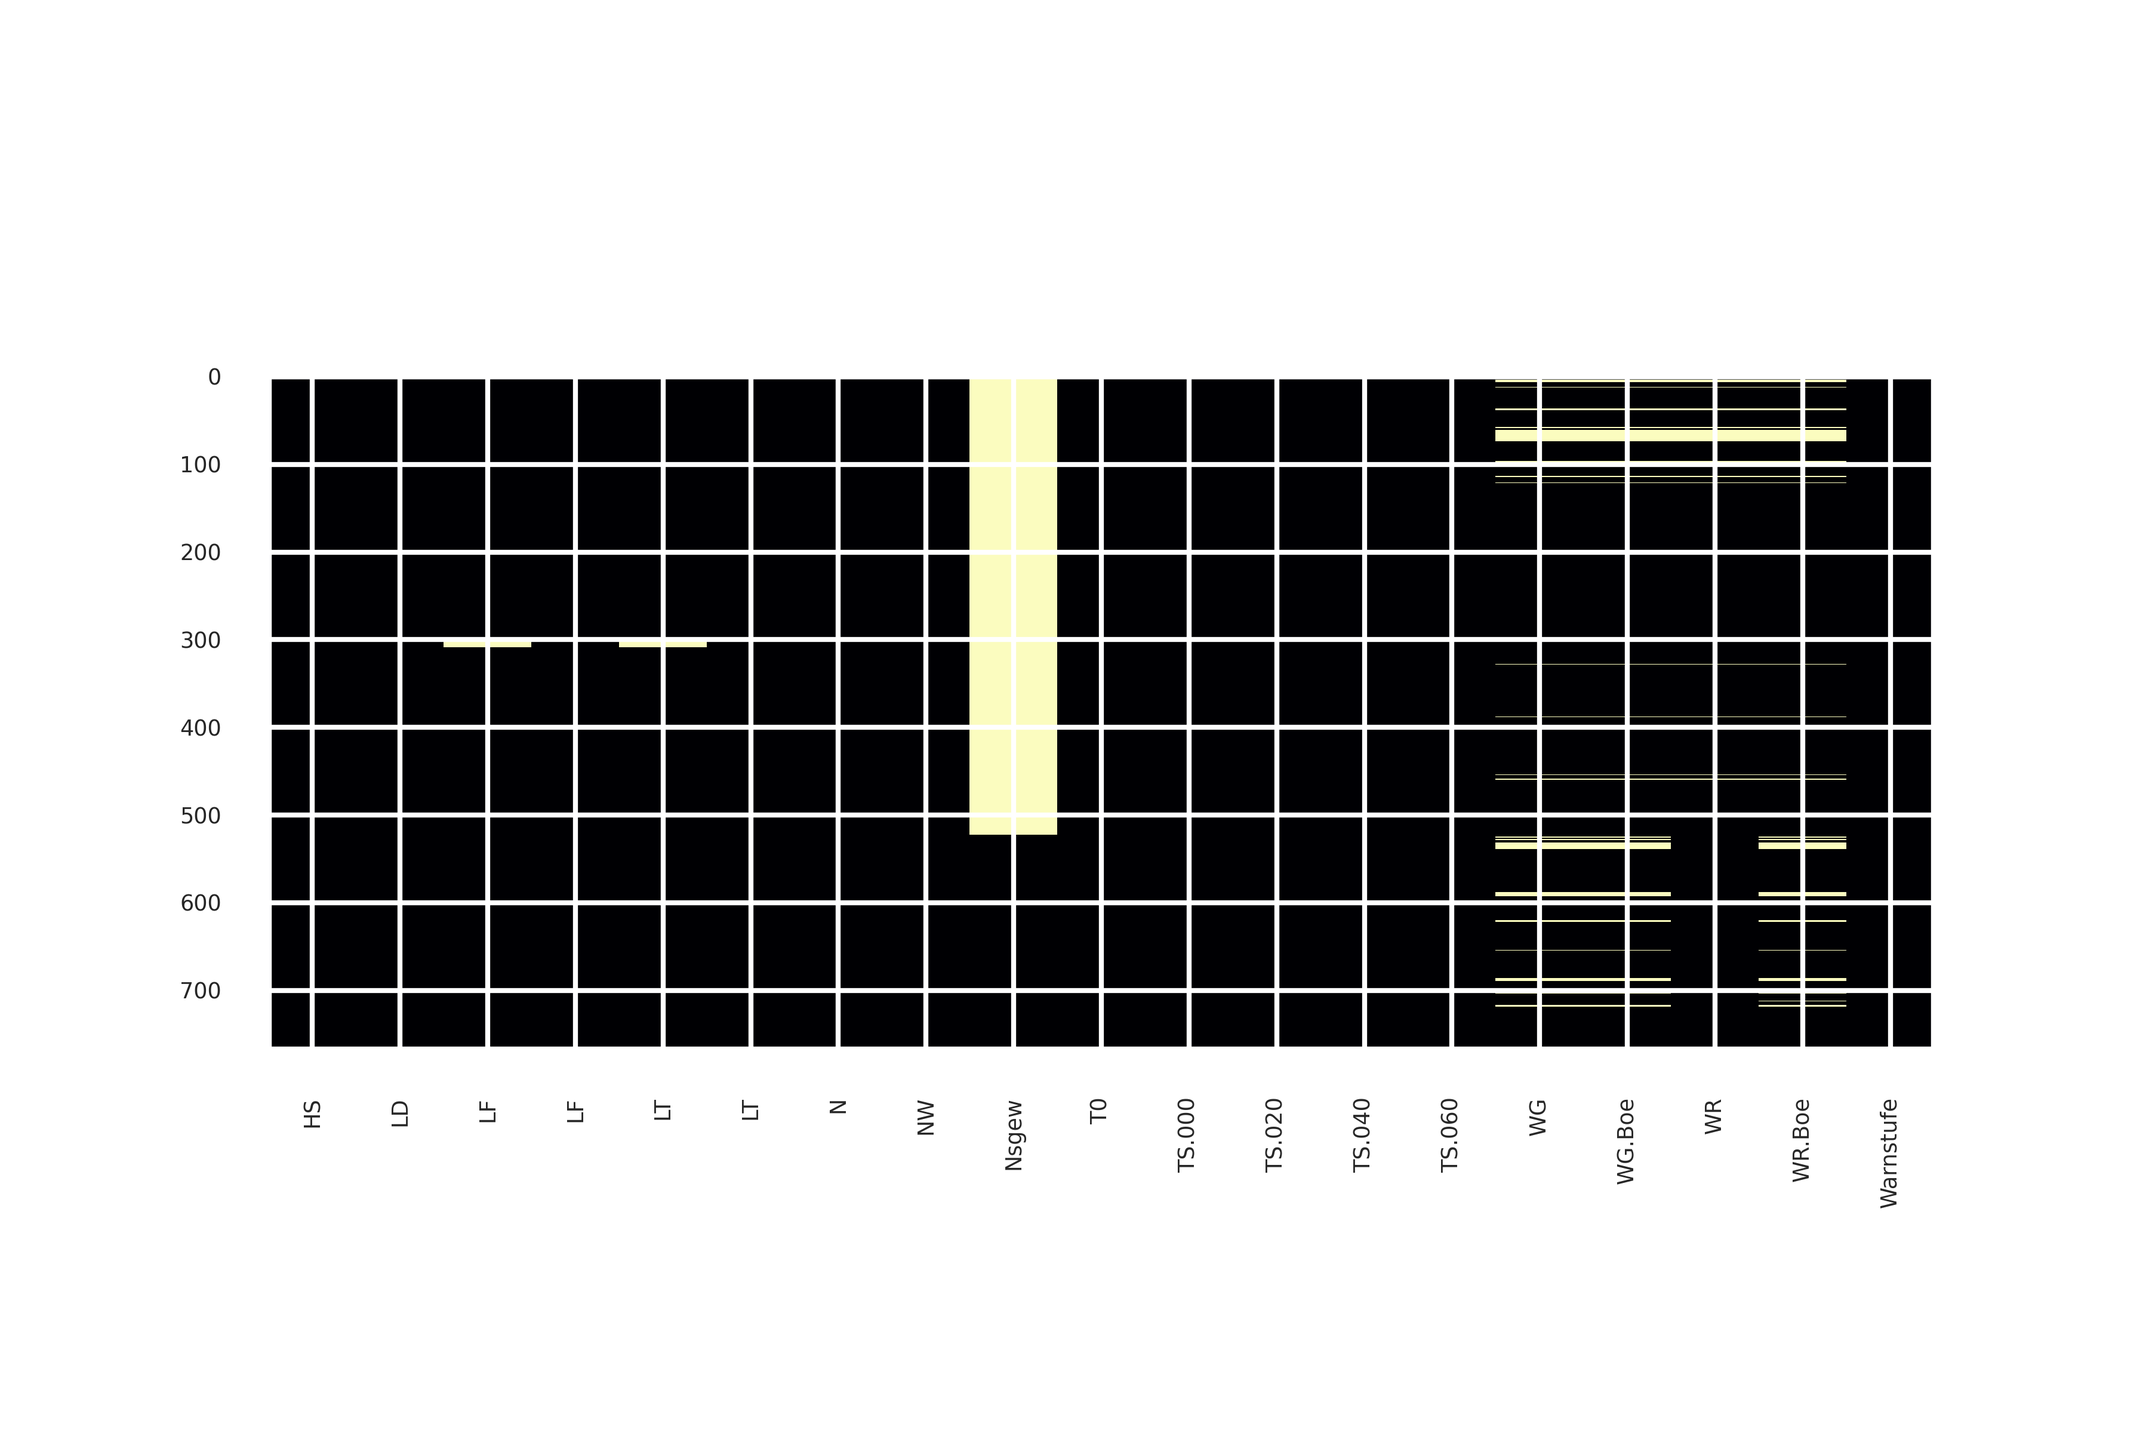
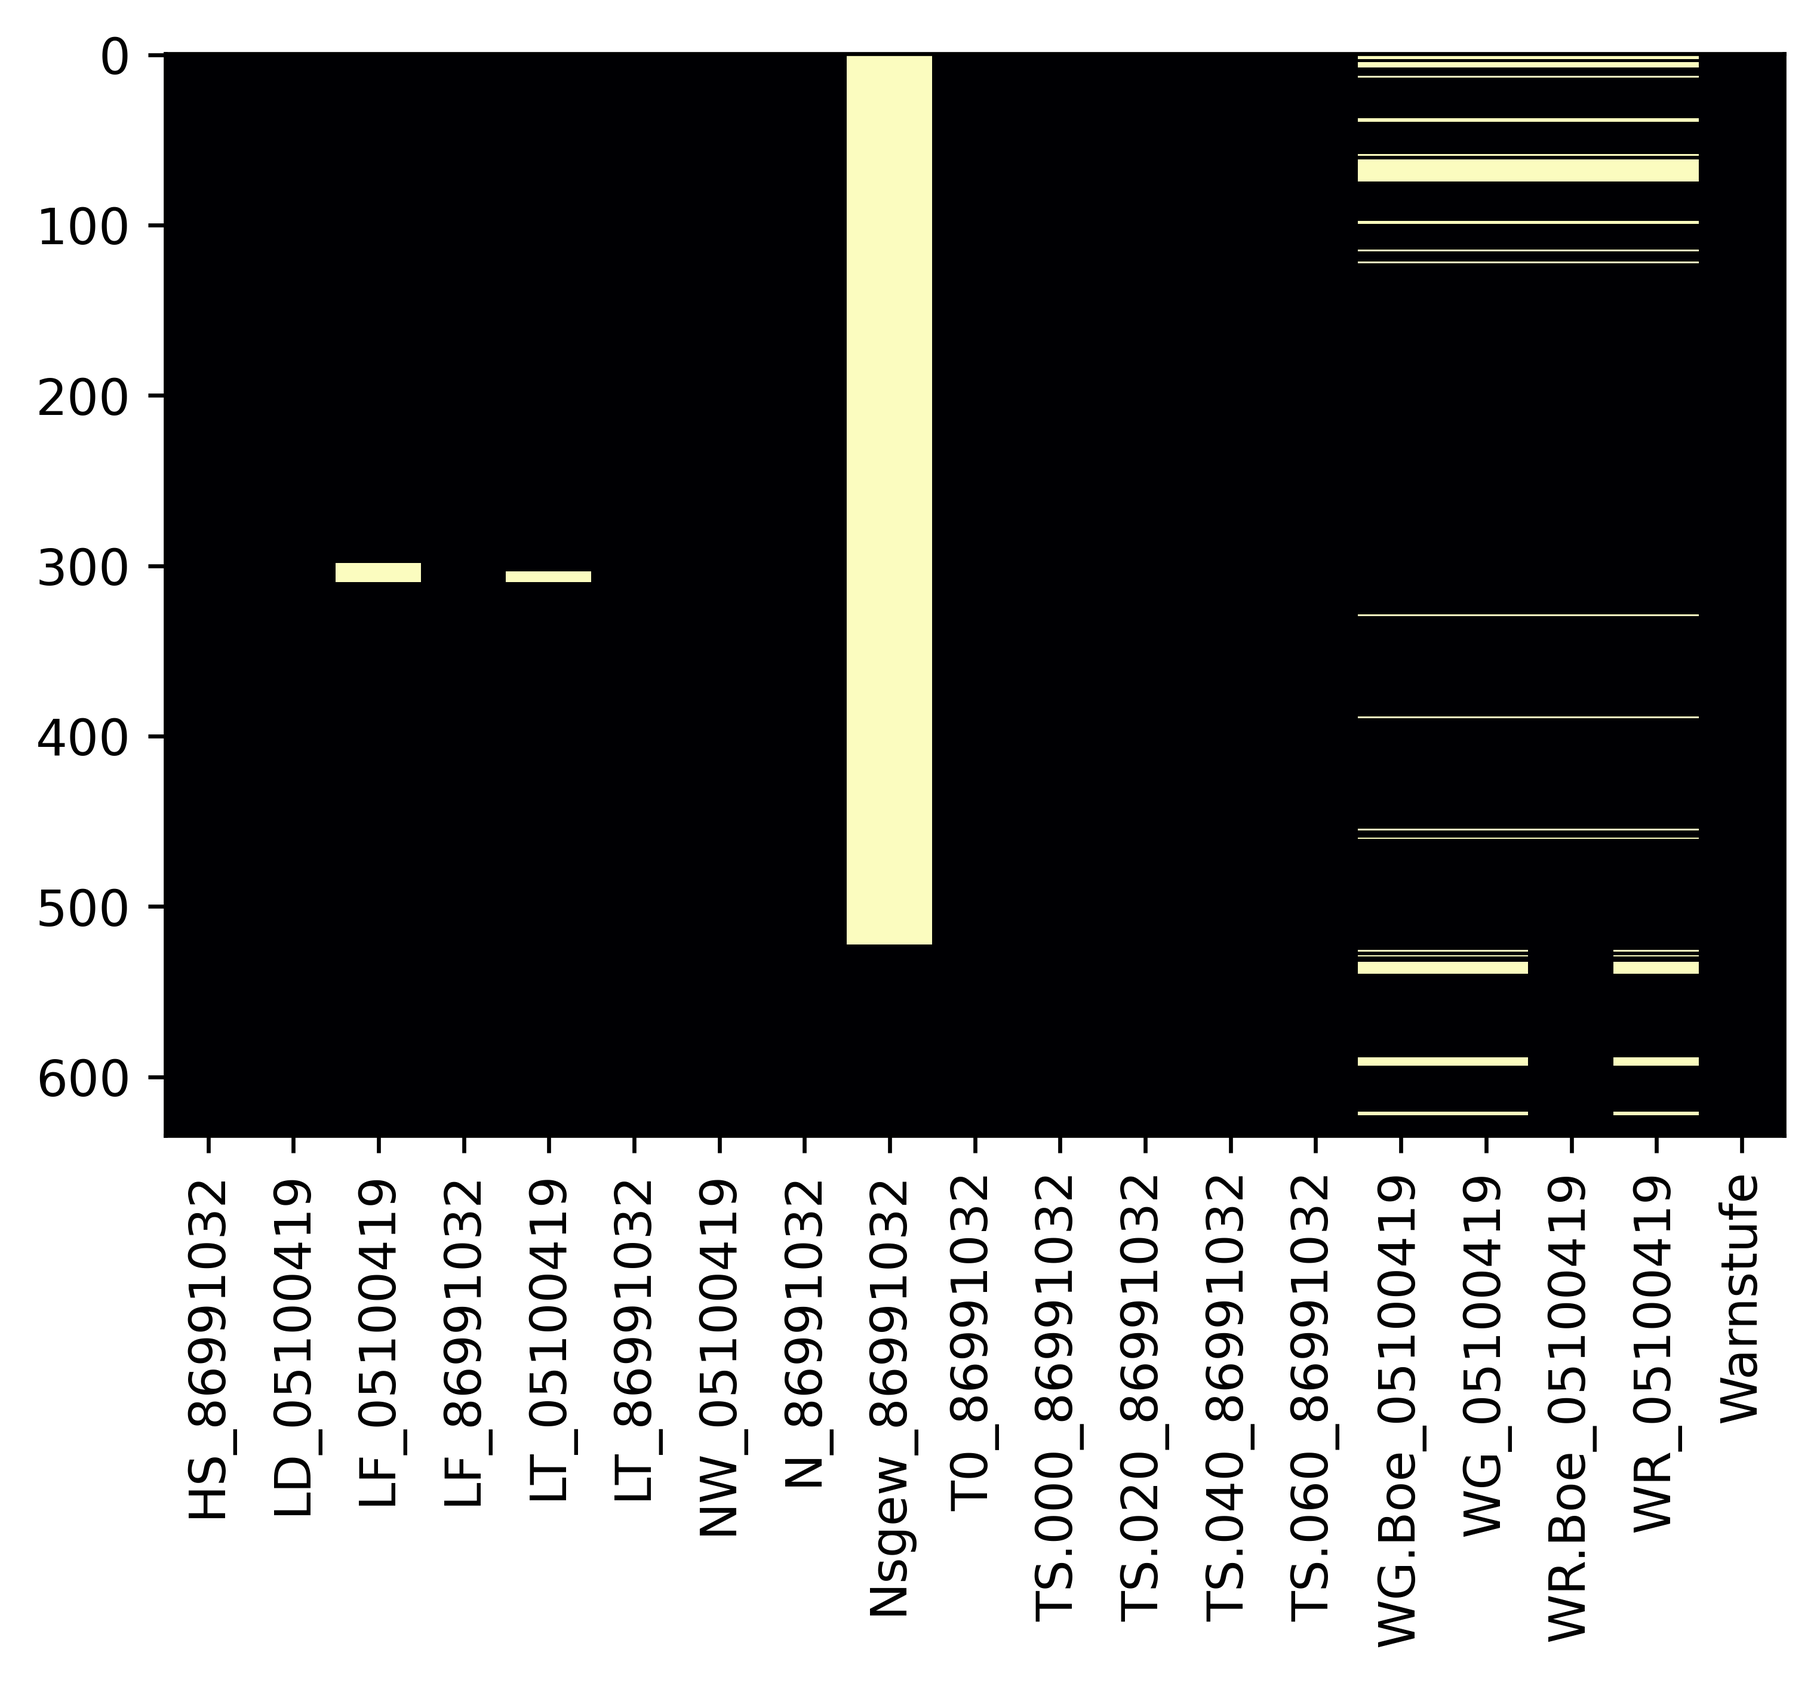
prepare modeling

diff --git a/eda/eda_weather.py b/eda/eda_weather.py
@@ -12,14 +12,15 @@ from functions_general import import_weather_file
 from matplotlib import pyplot as plt
 
 from functions_eda import (plot_correlations, plot_missing_values,
-                           show_data_overview, correlate_aggregate_per_day, compare_shift_correlations)
+                           show_data_overview, correlate_aggregate_per_day, compare_shift_correlations, compare_agg_func_correlations)
 
 WEATHER_FILEPATH = "../data/lawinenwarndienst/weather_data/1-allgaeu/hochgrat-hoermoos/"
 FILES = os.listdir(WEATHER_FILEPATH)
 METRICS = [re.findall(r"(?<=-).+(?=-)", file)[0] for file in FILES]
 
 
-# DATA IMPORT ############
+# * DATA IMPORT ###########################################
+
 dfs = [import_weather_file(WEATHER_FILEPATH, file) for file in FILES]
 data = dfs[0].join(dfs[1:])
 data = data.reindex(sorted(data.columns), axis=1)
@@ -29,38 +30,36 @@ warning_levels = pickle.load(open("../data/lawinenwarndienst/warning_levels_prep
 warning_levels = warning_levels[(warning_levels.low_high == 1) & (warning_levels.Zone == "Allgäuer Alpen")][["Warnstufe"]].astype(int)
 
 
-# MISSING VALUES #############
+# * MISSING VALUES #########################################
+
 fig = plot_missing_values(data, labels = sorted(METRICS), aspect = 0.00003)
-fig.savefig("output/missing_values.png", dpi = 600)
+fig.savefig("output/missing_values.png", dpi = 600, facecolor = 'white', transparent = False)
 
 
-# TRAIN TEST SPLIT ##############
+# * TRAIN TEST SPLIT #######################################
+
 # Threshold: August 2017
 train = data[data.index < "2017-08-01"]
 test = data[data.index >= "2017-08-01"]
 
 
-# UNIVARIATE EXPLORATION ###########
+# * UNIVARIATE EXPLORATION ##################################
 
 # T0 - Surface temperature
 show_data_overview(train[["T0_86991032"]])
-#?  Auffällig:
-#   Monatsverlauf: Größere Schwankungen / Abstürze
+#? Monatsverlauf: Größere Schwankungen / Abstürze
 
 # WG - wind speed
 show_data_overview(train[["WG_05100419"]])
-#?  Auffällig:
-#   Teils viele NAs (bis zu 16%)
-#   Viel Rauschen in den Daten (natürlich)
+#? Teils viele NAs (bis zu 16%)
+#? Viel Rauschen in den Daten (natürlich)
 
 show_data_overview(train[["WG.Boe_05100419"]])
-#?  Auffällig:
-# Bis zu 17% NAs
+#? Bis zu 17% NAs
 
 # N - precipitation
 show_data_overview(train[["N_86991032"]])
-#?  Auffällig:
-#   N ist wohl neuer Niederschlag pro Zeitfenster
+#? N ist wohl neuer Niederschlag pro Zeitfenster
 
 # LT - air temperature
 show_data_overview(train[["LT_05100419"]])
@@ -69,11 +68,10 @@ show_data_overview(train[["LT_86991032"]])
 # WR - wind direction
 show_data_overview(train[["WR.Boe_05100419"]])
 show_data_overview(train[["WR_05100419"]])
-#?  Auffällig:
-#   Teils viele NAs
-#   Gemessen in Grad von 0 bis 359
-#   Unwahrscheinlich, dass ich diese Variable brauche
-#   Interessant das Histogramm
+#? Teils viele NAs
+#? Gemessen in Grad von 0 bis 359
+#? Unwahrscheinlich, dass ich diese Variable brauche
+#? Interessant das Histogramm
 
 # TS - snow temperature
 show_data_overview(train[["TS.000_86991032"]])
@@ -85,118 +83,87 @@ snow_temp = train.loc[:"2013-09-01",train.columns.str.startswith("TS")]
 snow_temp["time"] = snow_temp.index.date
 snow_temp = snow_temp.melt(id_vars = "time")
 sns.lineplot(x = snow_temp["time"], y = snow_temp["value"], hue = snow_temp["variable"])
-
-#?  Auffällig:
-#   Absolute Werte für Schneetemperatur können nicht stimmen - bis 40 Grad? MW von 5 Grad? Wahrscheinlich: Wenn kein Schnee, dann einfach Umgebungstemperatur!
-#   Die höher angebrachten sind auch im Winter manchmal oberhalb des Schnees. Insgesamt aber nur wenige Tage Unterschied
+#? Absolute Werte für Schneetemperatur können nicht stimmen - bis 40 Grad? MW von 5 Grad? Wahrscheinlich: Wenn kein Schnee, dann einfach Umgebungstemperatur!
+#? Die höher angebrachten sind auch im Winter manchmal oberhalb des Schnees. Insgesamt aber nur wenige Tage Unterschied
 
 # LD - air pressure
 show_data_overview(train[["LD_05100419"]])
 
 # Nsgew - PRECIPITATION WEIGHT
 show_data_overview(train[["Nsgew_86991032"]])
-#?  Auffällig:
-#   Nur sehr wenige Werte (der maximal möglichen) vorhanden (nur von 2016 bis 2018)  
-# Daten für 2017 sehen seltsam aus
+#? Nur sehr wenige Werte (der maximal möglichen) vorhanden (nur von 2016 bis 2018)  
+#? Daten für 2017 sehen seltsam aus
 
 # LF - RELATIVE HUMIDITY 
 show_data_overview(train[["LF_86991032"]]) # wind station
-#?  Auffällig:
-#   Relative Feuchtigkeit in Prozent
-#   Viel Rauschen in den Daten
-#   Verteilung sehr linksschief
+#? Relative Feuchtigkeit in Prozent
+#? Viel Rauschen in den Daten
+#? Verteilung sehr linksschief
 
 show_data_overview(train[["LF_05100419"]]) # snow station
-#?  Auffällig:
-#   In manchen Jahren bis zu 14% NAs
-#   Insgesamt feuchter als in der Windstation
-#   Verteilung sehr linksschief; die meisten Werte bei 100%
+#? In manchen Jahren bis zu 14% NAs
+#? Insgesamt feuchter als in der Windstation
+#? Verteilung sehr linksschief; die meisten Werte bei 100%
 
 # HS - SNOW HEIGHT
 show_data_overview(train[["HS_86991032"]])
-#?  Auffällig:
-#   MW = 30, Median = 0
+#? MW = 30, Median = 0
 
 # NW - PRECIPITATION BOOLEAN 
 show_data_overview(train[["NW_05100419"]])
-#?  Auffällig:
-#   Boolean variable
-#   In 6% Niederschlag
+#? Boolean variable
+#? In 6% Niederschlag
 
 # LT - AIR TEMPERATURE 
 show_data_overview(train[["LT_05100419"]]) # snow station
 show_data_overview(train[["LT_86991032"]]) # snow station
-#?  Auffällig:
-#   Viel Rauschen
+#? Viel Rauschen
 
 
-# MULTIVARIATE EXPLORATION
+# * MULTIVARIATE EXPLORATION #####################
 
-# CORRELATIONS
+train_agg = train.groupby(train.index.date).mean().shift(1)
+train_full_agg = train_agg.join(warning_levels).dropna(subset = warning_levels.columns)
+
+# PAIRPLOT ALL VARIABLES
+fig = sns.pairplot(train_full_agg)
+fig.savefig("output/pairplot_all_vars_shift1.png", dpi = 300, facecolor = 'white', transparent = False)
+
+# MISSING VALUES ALL VARIABLES
+fig = plot_missing_values(train_full_agg, labels = train_full_agg.columns, aspect = 0.02)
+fig.savefig("output/missing_values_warnstufe.png", dpi = 600, facecolor = 'white', transparent = False, bbox_inches = "tight")
+
+# CORRELATIONS OF INDEPENDENT VARIABLES
 out = plot_correlations(train, labels = sorted(METRICS))
-out.savefig("output/correlations.png", dpi = 600)
-#? Auffällig:
-#   Schneehöhe ist negativ korreliert mit Luftdruck, Lufttemperatur und Schneetemperatur
-#   Luftdruck ist positiv korreliert mit Temperatur, negativ mit Windgeschwindigkeit und Luftfeuchtigkeit
-#   Luftfeuchtigkeit ist negativ korreliert mit Lufttemperatur
+out.savefig("output/correlations.png", dpi = 600, facecolor = 'white', transparent = False)
+#? Schneehöhe ist negativ korreliert mit Luftdruck, Lufttemperatur und Schneetemperatur
+#? Luftdruck ist positiv korreliert mit Temperatur, negativ mit Windgeschwindigkeit und Luftfeuchtigkeit
+#? Luftfeuchtigkeit ist negativ korreliert mit Lufttemperatur
 
 # CORRELATION WITH TARGET VARIABLE
+# Compare different shift values
+for shift in range(4):
+    plt.figure()
+    corr_shift = compare_agg_func_correlations(train, warning_levels, shift = shift)
+    sns.set(font_scale = 0.4)
+    fig = sns.heatmap(corr_shift, cmap = "coolwarm_r", annot = True)
+    fig.figure.savefig(f"output/corr_shift{shift}.png", dpi = 600, facecolor = 'white', transparent = False)
+#? Alle Temperaturen: max /mean ist am stärksten korreliert, min am wenigsten
+#? Sum verhält sich sehr ähnlich wie mean
 
-# Variation 1: On 10 minutes levels
-train_full = train.join(warning_levels)
-# Forward fill "warnstufe" per day
-train_full["Warnstufe"] = train_full[["Warnstufe"]].groupby(train_full.index.date).fillna(method = "ffill")
-# Plot missing values
-labels_plot = sorted(METRICS)
-labels_plot.append("Warnstufe")
-fig = plot_missing_values(train_full, labels = labels_plot, aspect = 0.00003)
-fig.savefig("output/missing_values_warnstufe.png", dpi = 600)
+# Compare different aggregation functions
+for agg_func in ["mean", "max", "min", "sum"]:
+    plt.figure()
+    shift_corr = compare_shift_correlations(train, warning_levels, max_shift = 14, agg_func = agg_func)
+    sns.set(font_scale = 0.4)
+    fig = sns.heatmap(shift_corr, cmap = "coolwarm_r", annot = True)
+    fig.figure.savefig(f"output/corr_shift_{agg_func}.png", dpi = 600, facecolor = 'white', transparent = False)
+#? Shift von 1 bis 2 hat stärkere Korrelationen als die Daten am selben Tag (logisch)
 
-# Variation 2: On daily levels
-# Comparison: Mean, max and min
-correlation_mean = correlate_aggregate_per_day(train, warning_levels, "mean", shift = 0)
-correlation_max = correlate_aggregate_per_day(train, warning_levels, "max", shift = 0)
-correlation_min = correlate_aggregate_per_day(train, warning_levels, "min", shift = 0)
-correlation_sum = correlate_aggregate_per_day(train, warning_levels, "sum", shift = 0)
-
-fig = sns.heatmap(pd.concat([correlation_mean, correlation_max, correlation_min, correlation_sum], axis = 1), cmap = "coolwarm_r", annot = True)
-fig.figure.savefig("output/corr_shift0.png", dpi = 600)
-
-#? Erkenntnisse:
-#   Alle Temperaturen: max /mean ist am stärksten korreliert, min am wenigsten
-#   Sum verhält sich sehr ähnlich wie mean
-
-
-# # LAG 1
-# correlation_mean = correlate_aggregate_per_day(train, warning_levels, "mean", shift = 1)
-# correlation_max = correlate_aggregate_per_day(train, warning_levels, "max", shift = 1)
-# correlation_min = correlate_aggregate_per_day(train, warning_levels, "min", shift = 1)
-# correlation_sum = correlate_aggregate_per_day(train, warning_levels, "sum", shift = 1)
-
-# fig = sns.heatmap(pd.concat([correlation_mean, correlation_max, correlation_min, correlation_sum], axis = 1), cmap = "coolwarm_r", annot = True)
-# fig.figure.savefig("output/corr_shift1.png", dpi = 600)
-
-
-# Compare lag correlations: mean
-shift_corr_mean = compare_shift_correlations(train, warning_levels, max_shift = 14, agg_func = "mean")
-sns.set(font_scale=0.4)
-fig = sns.heatmap(shift_corr_mean, cmap = "coolwarm_r", annot = True)
-fig.figure.savefig("output/corr_shift_mean.png", dpi = 600)
-
-# Compare lag correlations: max
-shift_corr_mean = compare_shift_correlations(train, warning_levels, max_shift = 14, agg_func = "max")
-sns.set(font_scale=0.4)
-fig = sns.heatmap(shift_corr_mean, cmap = "coolwarm_r", annot = True)
-fig.figure.savefig("output/corr_shift_max.png", dpi = 600)
-
-# Compare lag correlations: min
-shift_corr_mean = compare_shift_correlations(train, warning_levels, max_shift = 14, agg_func = "min")
-sns.set(font_scale=0.4)
-fig = sns.heatmap(shift_corr_mean, cmap = "coolwarm_r", annot = True)
-fig.figure.savefig("output/corr_shift_min.png", dpi = 600)
-
-# Compare lag correlations: sum
-shift_corr_mean = compare_shift_correlations(train, warning_levels, max_shift = 14, agg_func = "sum")
-sns.set(font_scale=0.4)
-fig = sns.heatmap(shift_corr_mean, cmap = "coolwarm_r", annot = True)
-fig.figure.savefig("output/corr_shift_sum.png", dpi = 600)
+# RELATION TO TARGET VARIABLE
+# Mean - shift 1
+train_agg = train.groupby(train.index.date).mean().shift(1)
+train_full_agg = train_agg.join(warning_levels)
+fig = sns.pairplot(train_full_agg, y_vars = ['Warnstufe'], x_vars = train_full_agg.columns[::-1])
+fig.savefig("output/pairplot_shift1.png", dpi = 600)
+#? Keine ganz klaren Trends erkennbar

diff --git a/data_engineering/data_engineering.py b/data_engineering/data_engineering.py
@@ -1,16 +1,77 @@
-## DATA ENGINEERING ###
+import sys
+sys.path.append("/home/daniel/Schreibtisch/Projekte/avalanche-risk")
 
+import os
+import pickle
+import re
 
-# Imputation
-#! davor: train-test-split!
+import numpy as np
+import pandas as pd
+import seaborn as sns
+from functions_general import import_weather_file
+from matplotlib import pyplot as plt
+from eda.functions_eda import plot_missing_values
 from sklearn.impute import KNNImputer
+from sklearn.pipeline import make_pipeline
+from sklearn.preprocessing import PowerTransformer, MinMaxScaler
+from eda.functions_eda import plot_correlations
 
-data_full_agg.isna().sum()
-data_full_agg["Nsgew_86991032"].plot()
+WEATHER_FILEPATH = "../data/lawinenwarndienst/weather_data/1-allgaeu/hochgrat-hoermoos/"
+FILES = os.listdir(WEATHER_FILEPATH)
+METRICS = [re.findall(r"(?<=-).+(?=-)", file)[0] for file in FILES]
 
 
-imputer = KNNImputer(n_neighbors = 10)
+# * DATA IMPORT ###########################################
 
-data_full_agg_imputed = pd.DataFrame(imputer.fit_transform(data_full_agg), columns = data_full_agg.columns, index = data_full_agg.index)
-data_full_agg_imputed.isna().sum()
-data_full_agg_imputed["Nsgew_86991032"].plot()
+dfs = [import_weather_file(WEATHER_FILEPATH, file) for file in FILES]
+data = dfs[0].join(dfs[1:])
+data = data.reindex(sorted(data.columns), axis=1)
+del dfs
+
+warning_levels = pickle.load(open("../data/lawinenwarndienst/warning_levels_preprocessed.p", "rb"))
+warning_levels = warning_levels[(warning_levels.low_high == 1) & (warning_levels.Zone == "Allgäuer Alpen")][["Warnstufe"]].astype(int)
+
+
+# * TRAIN TEST SPLIT #######################################
+
+data = data.drop(["Nsgew_86991032"], axis = 1)
+
+test = data[["HS_86991032", "LD_05100419", "LF_05100419", "LT_86991032", "N_86991032", "T0_86991032", "TS.060_86991032", "WG_05100419", "WR_05100419"]]
+
+# Threshold: August 2017
+train = data[data.index < "2017-08-01"]
+test = data[data.index >= "2017-08-01"]
+
+
+# * IMPUTE MISSING VALUES ##################################
+
+def preprocess(df, agg_func, columns_to_keep):
+    # Aggregate
+    df = getattr(train.groupby(train.index.date), agg_func)()
+    # Keep only relevant columns
+    df = df[columns_to_keep]
+    # Impute
+    knn = KNNImputer(n_neighbors = 10)
+    # Scale
+    scale = MinMaxScaler()
+    pipeline = make_pipeline(knn, scale)
+    out = pd.DataFrame(pipeline.fit_transform(df), columns = df.columns, index = df.index)
+    return out
+
+def get_shifted_features(df, max_shift, include_zero = False):
+    out = pd.DataFrame(index = df.index)
+    start = [0 if include_zero else 1][0]
+    for shift in range(start, max_shift+1):
+        data = preprocess(df).shift(shift)
+        data.columns = df.columns + f"-{shift}"
+        out = out.join(data)
+    return out
+
+# * remove correlated features
+plot_correlations(data, labels = data.columns)
+columns_to_keep = ["HS_86991032", "LD_05100419", "LF_05100419", "LT_86991032", "N_86991032", "T0_86991032", "TS.060_86991032", "WG_05100419", "WR_05100419"]
+
+train_prep = preprocess(train, agg_func = "mean", columns_to_keep = columns_to_keep)
+
+train_shifted = get_shifted_features(train_prep, max_shift = 1, include_zero = False)
+

diff --git a/eda/functions_eda.py b/eda/functions_eda.py
@@ -36,6 +36,7 @@ def show_data_overview(df):
     df.plot(kind = "hist", bins = 20)
     
 def plot_missing_values(df, labels, **kwargs): 
+    plt.tight_layout()
     fig, ax = plt.subplots()
     im = ax.imshow(df.isna().astype(int).to_numpy(), cmap = "magma", interpolation = "nearest", **kwargs)
     ax.set_xticks(np.arange(df.shape[1]))
@@ -62,8 +63,15 @@ def correlate_aggregate_per_day(df, warning_levels, agg_func, shift):
     return cor
 
 def compare_shift_correlations(df, warning_levels, max_shift, agg_func):
-    correlations = pd.DataFrame(index =  df.columns.tolist())
+    correlations = pd.DataFrame(index = df.columns.tolist())
     for shift in range(max_shift+1):
         correlation = correlate_aggregate_per_day(df, warning_levels, agg_func, shift = shift)
+        correlations = correlations.join(correlation)
+    return correlations
+
+def compare_agg_func_correlations(df, warning_levels, shift):
+    correlations = pd.DataFrame(index = df.columns.tolist())
+    for agg_func in ["mean", "max", "min", "sum"]:
+        correlation = correlate_aggregate_per_day(df, warning_levels, agg_func, shift)
         correlations = correlations.join(correlation)
     return correlations
